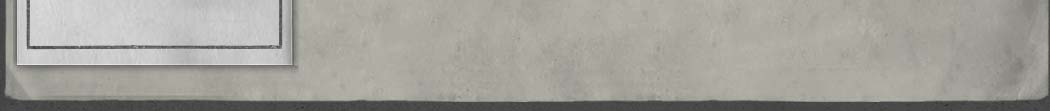
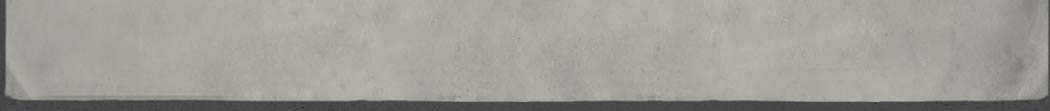
update yn3 mapping

Changed region(s): [[0.0, 0.0, 0.3048, 0.6216]]

diff --git a/theberrics.com/public_html/app/webroot/theme/younited-nations-3/css/crews.css b/theberrics.com/public_html/app/webroot/theme/younited-nations-3/css/crews.css
@@ -16,8 +16,10 @@
 
 	margin-top:35px;
 	height:400px;
-	width:100%;
-	
+	width:700px;
+	position:absolute;
+	top:40px;
+	left:25px;
 }
 
 #yn3-right-col {
@@ -32,25 +34,6 @@
 
 }
 
-#yn3-crews .col-right {
-
-	float:right;
-	width:77%;
-	clear:none;
-}
-
-#yn3-crews .col-right .inner {
-
-	padding:10px;
-	
-}
-
-#yn3-crews .col-left {
-
-	float:left;
-	width:20%;
-	clear:none;
-}
 
 .map-bg {
 	
@@ -60,17 +43,18 @@
 .map-bg .map-bg-container {
 	
 	background-image:url(/theme/younited-nations-3/img/map/map-bg.jpg);
-	margin-top:604px;
+	margin-top:377px;
 	
 }
 
 .map-bg .map-bg-container-top {
 	
 	background-image:url(/theme/younited-nations-3/img/map/map-bg-top.jpg);
-	margin-top:-604px;
+	margin-top:-377px;
 	float:left;
 	width:100%;
 	background-repeat:no-repeat;
+	padding-top:15px;
 }
 
 .map-bg .map-bg-bottom {
@@ -78,3 +62,97 @@
 	background-image:url(/theme/younited-nations-3/img/map/map-bg-bottom.jpg);
 	height:111px;
 }
+
+#yn3-crews .col-right {
+
+	float:right;
+	width:755px;
+	clear:none;
+	
+}
+
+#yn3-crews .col-right .map-container {
+
+	background-image:url(/theme/younited-nations-3/img/map/gmaps-bg.jpg);
+	height:554px;
+	width:752px;
+	position:relative;
+	margin-right:3px;
+
+}
+
+#yn3-crews .col-left {
+
+	float:left;
+	width:294px;
+	clear:none;
+}
+
+#yn3-crews .col-left .container {
+
+	background-image:url(/theme/younited-nations-3/img/map/left-col-bg.png);
+	margin-top:309px;		
+	 
+}
+
+#yn3-crews .col-left .container-top {
+	
+	float:left;
+	background-image:url(/theme/younited-nations-3/img/map/left-col-top.png);
+	background-repeat:no-repeat;
+	margin-top:-309px;
+	width:100%;
+}
+
+#yn3-crews .col-left .bottom {
+
+	background-image:url(/theme/younited-nations-3/img/map/left-col-bottom.png);
+	height:123px;
+	
+}
+
+#yn3-crews .country-list {
+	
+	width:245px;
+	margin:auto;
+	
+}
+#yn3-crews .country-list ul {
+
+	margin:0px;
+	padding:0px;
+	list-style:none;	
+	font-family:'Courier';
+	font-size:18px;
+	color:black;
+}
+
+#yn3-crews .country-list ul li {
+	
+	margin-top:5px;
+	
+	
+	
+}
+#yn3-crews .country-list ul li .country-name {
+
+	
+	line-height:30px;
+	border-bottom:2px solid #8c4232;
+	display:block;
+	width:81%;
+	float:left;
+}
+
+#yn3-crews .country-list ul li .country-count {
+	
+	text-align:center;
+	line-height:30px;
+	border-bottom:2px solid #8c4232;
+	display:block;
+	width:16%;	
+	float:right;	
+	
+}
+
+

diff --git a/theberrics.com/public_html/app/webroot/theme/younited-nations-3/js/crews.js b/theberrics.com/public_html/app/webroot/theme/younited-nations-3/js/crews.js
@@ -2,7 +2,9 @@ $(document).ready(function() {
 
 	yn3.init();
 	yn3.getPins();
-
+	
+	yn3.tester();
+	
 	$('#check-map').click(function() { 
 
 		var s = 'Zoom:'+yn3.map.getZoom();
@@ -140,7 +142,41 @@ var yn3 = {
 			
 		}
 		
-	}
-
+	},
+	getGeoData:function(str,callback) {
 	
-}
+		var ops = {
+				
+			data:{
+			
+				"data":{
+			
+					
+			
+				}
+			
+			},
+			url:"/younited-nations-3/get_geo_data",
+			success:function(d) {
+				
+			}
+				
+		};
+		
+		
+	},
+	handleCountryClickGeoData:function(data) {
+		
+		var msg = ["testing"];
+		
+		yn3.getGeoData.call(this,msg);
+		
+	},
+	handleCountryClick:function() {
+		
+	}
+	
+	
+	
+	
+};

diff --git a/theberrics.com/public_html/app/controllers/younited_nations_controller.php b/theberrics.com/public_html/app/controllers/younited_nations_controller.php
@@ -8,6 +8,8 @@ class YounitedNationsController extends DailyopsController {
 	
 	public $event_id = false;
 	
+	private $cache_token = "yn3-geo-cache";
+	
 	public function beforeFilter() {
 
 		if($this->params['action'] == "handle_upload") {
@@ -222,8 +224,52 @@ class YounitedNationsController extends DailyopsController {
 		
 	}
 	
-	public function ajax_get_crews() {
+	public function get_geo_cache() {
 		
+		$key = $this->data['cache_key'];
+		
+		if(!$this->params['isAjax'] || empty($key)) {
+			
+			return $this->cakeError("error404");
+			
+		} else {
+			
+			
+			$key = md5($key);
+			
+		}
+		
+		//get the cache
+		$cache = Cache::read($this->cache_token,"max");
+		
+		//check to see if we have the key
+		if(array_key_exists($key,$cache)) return die(json_encode($cache[$key]));
+		
+		die(json_encode(array()));
+		
+	}
+	
+	public function set_geo_cache() {
+		
+		if(!$this->params['isAjax']) {
+			
+			return $this->cakeError("error404");
+			
+		}
+		
+		$key = $this->data['key'];
+		
+		$val = $this->data['val'];
+		
+		$cache = Cache::read($this->cache_token,"max");
+		
+		$cache[$key] = $val;
+		
+		Cache::write($this->cache_token,$cache,"max");
+		
+	}
+	
+	public function ajax_get_crews() {
 		
 		$this->setEvent();
 		

diff --git a/sharedConfig/cache_config.php b/sharedConfig/cache_config.php
@@ -49,6 +49,16 @@
   	 	'duration'=> '1 Day', //[optional]
  	 	"servers"=>$memcache_server
  	));
+ 	
+ 	Cache::config('max', array(
+ 		'engine' => 'Memcache', //[required]
+  		'path' => CACHE, //[optional] use system tmp directory - remember to use absolute path
+  		'prefix' => 'cake_', //[optional]  prefix every cache file with this string
+  		'lock' => false, //[optional]  use file locking
+  		'serialize' => true, //[optional],
+  	 	'duration'=> '29 Days', //[optional]
+ 	 	"servers"=>$memcache_server
+ 	));
 
  	Cache::config('_cake_core_', array(
  			   'engine' => 'Memcache',
